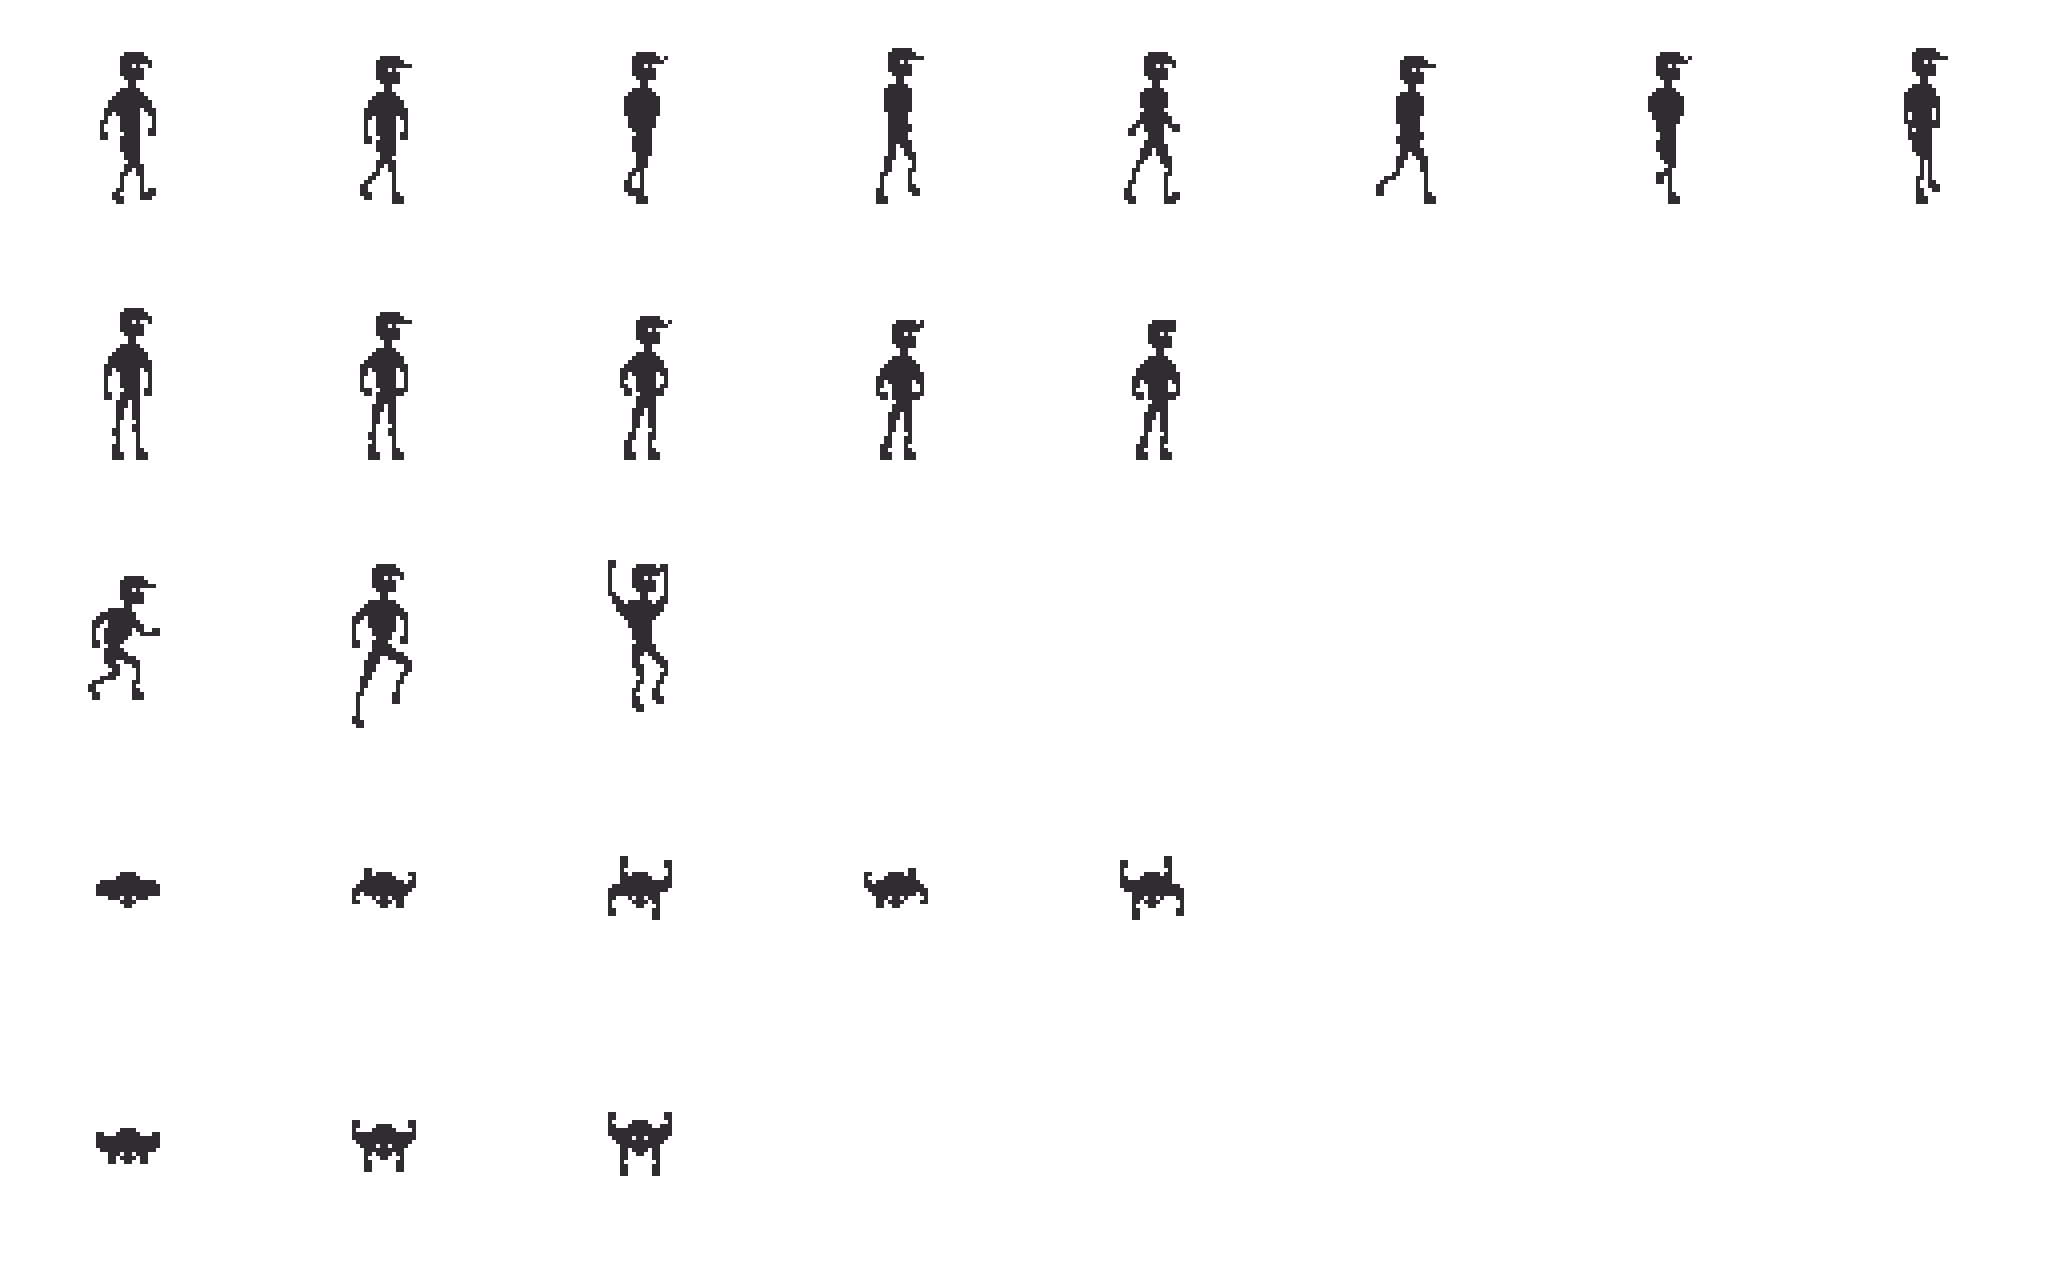
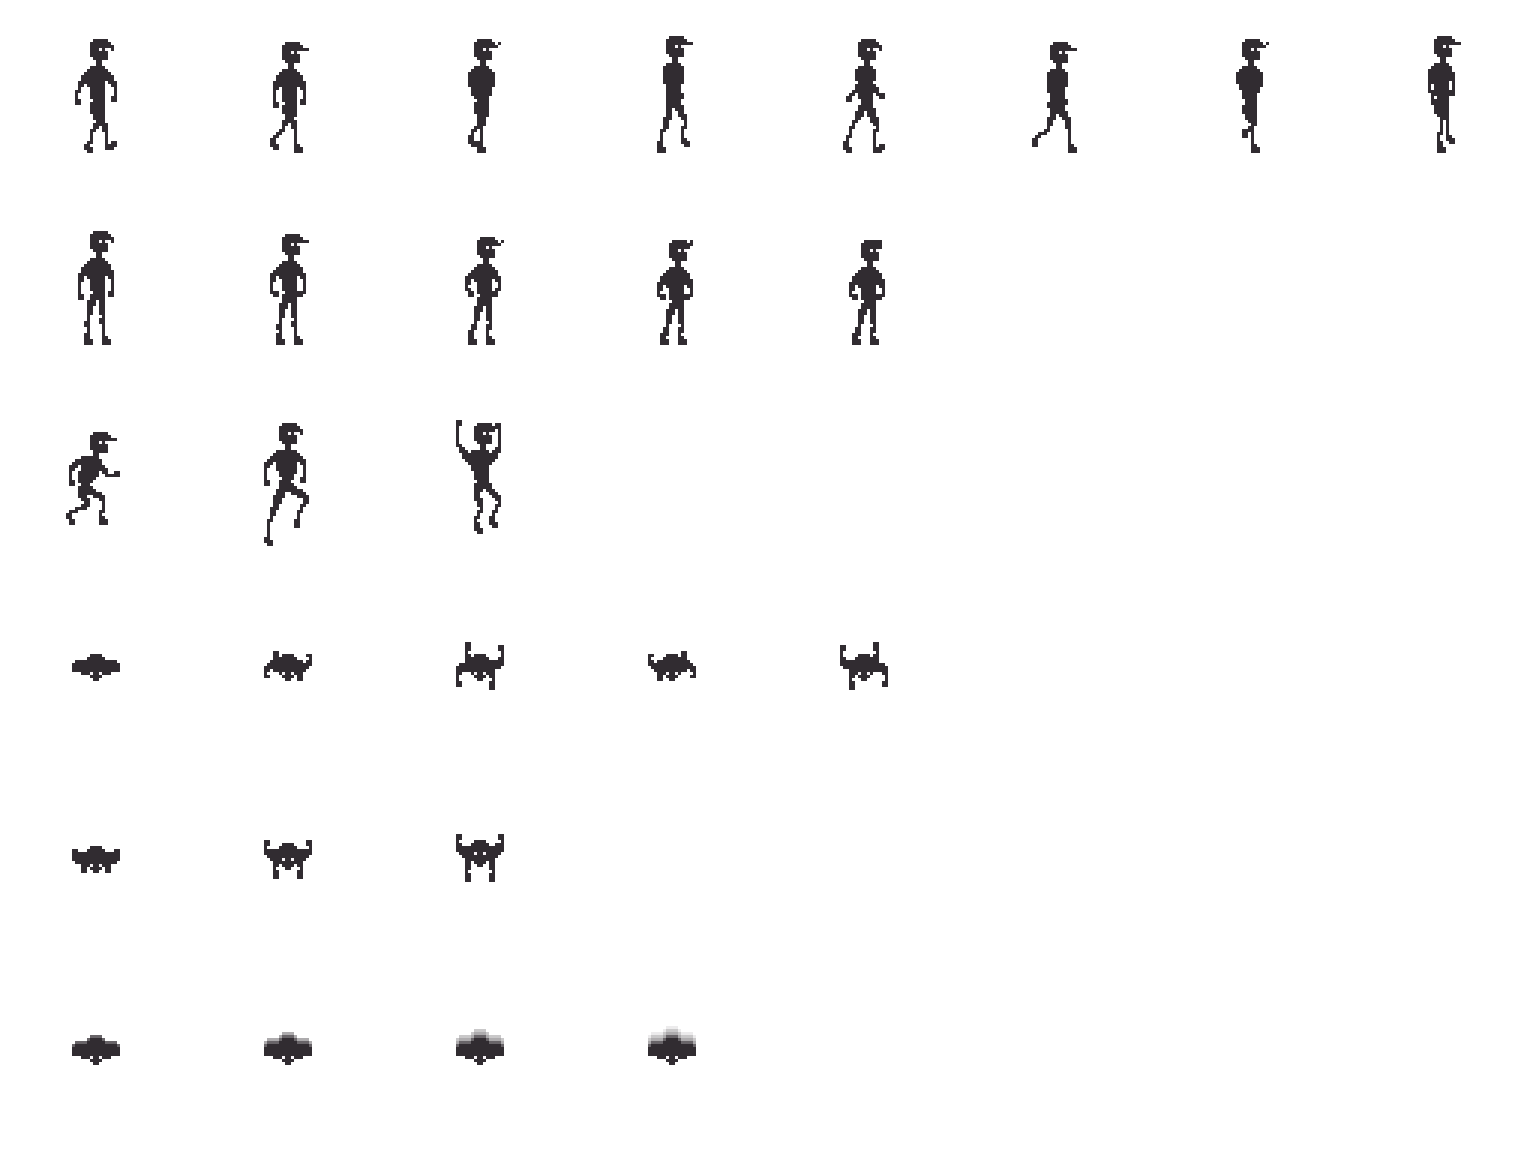
image updates

diff --git a/Game150/Game/Player.cpp b/Game150/Game/Player.cpp
@@ -16,10 +16,11 @@ Player::Player(Math::vec3 start_position) :
     GameObject(start_position)
 {
     //AddGOComponent(new CS230::Sprite("Assets/Player.spt", this));
-    AddGOComponent(new CS230::Sprite("Assets/Cat.spt", this));
+    AddGOComponent(new CS230::Sprite("Assets/Player.spt", this));
     change_state(&state_idle);
     current_state->Enter(this);
-    
+    GetGOComponent<CS230::Sprite>()->PlayAnimation(static_cast<int>(Animations::Idle));
+
 }
 
 void Player::Update(double dt) {
@@ -129,7 +130,7 @@ void Player::move(double dt)
 
 void Player::State_Jumping::Enter(GameObject* object) {
     Player* player = static_cast<Player*>(object);
-    player->GetGOComponent<CS230::Sprite>()->PlayAnimation(static_cast<int>(Animations::Idle));
+    player->GetGOComponent<CS230::Sprite>()->PlayAnimation(static_cast<int>(Animations::Jumping));
     player->SetVelocity({ player->GetVelocity().x, player->GetVelocity().y, Player::jump_velocity*0.1 });
     player->standing_on = nullptr;
 }
@@ -151,7 +152,12 @@ void Player::State_Jumping::CheckExit(GameObject* object) {
 
 void Player::State_Idle::Enter(GameObject* object) {
     Player* player = static_cast<Player*>(object);
-    player->GetGOComponent<CS230::Sprite>()->PlayAnimation(static_cast<int>(Animations::Idle));
+    if (player->dimension.GetDimension() == Dimension::Side) {
+        player->GetGOComponent<CS230::Sprite>()->PlayAnimation(static_cast<int>(Animations::Idle));
+    }
+    else{
+        player->GetGOComponent<CS230::Sprite>()->PlayAnimation(static_cast<int>(Animations::TopIdle));
+    }
 }
 void Player::State_Idle::Update(GameObject* object, double dt) {
     Player* player = static_cast<Player*>(object);
@@ -186,7 +192,12 @@ void Player::State_Idle::CheckExit(GameObject* object) {
 
 void Player::State_Falling::Enter(GameObject* object) {
     Player* player = static_cast<Player*>(object);
-    player->GetGOComponent<CS230::Sprite>()->PlayAnimation(static_cast<int>(Animations::Falling));
+    if (player->dimension.GetDimension() == Dimension::Side) {
+        player->GetGOComponent<CS230::Sprite>()->PlayAnimation(static_cast<int>(Animations::Falling));
+    }
+    else {
+        player->GetGOComponent<CS230::Sprite>()->PlayAnimation(static_cast<int>(Animations::TopFalling));
+    }
 }
 void Player::State_Falling::Update(GameObject* object, double dt) {
     Player* player = static_cast<Player*>(object);
@@ -228,8 +239,12 @@ void Player::State_Walking::Enter(GameObject* object) {
     {
         player->SetScale({ -player->GetScale().x, player->GetScale().y });
     }
-
-    player->GetGOComponent<CS230::Sprite>()->PlayAnimation(static_cast<int>(Animations::Walking));
+    if (player->dimension.GetDimension() == Dimension::Side) {
+        player->GetGOComponent<CS230::Sprite>()->PlayAnimation(static_cast<int>(Animations::Walking));
+    }
+    else {
+        player->GetGOComponent<CS230::Sprite>()->PlayAnimation(static_cast<int>(Animations::TopWalking));
+    }
 }
 void Player::State_Walking::Update(GameObject* object, double dt) {
     Player* player = static_cast<Player*>(object);
@@ -269,7 +284,7 @@ void Player::State_Walking::CheckExit(GameObject* object) {
 }
 void Player::State_Dashing::Enter(GameObject* object) {
     Player* player = static_cast<Player*>(object);
-    player->GetGOComponent<CS230::Sprite>()->PlayAnimation(static_cast<int>(Animations::Dashing));
+    player->GetGOComponent<CS230::Sprite>()->PlayAnimation(static_cast<int>(Animations::TopDashing));
     player->SetVelocity({ dash_velocity, player->GetVelocity().y, player->GetVelocity().z });
 }
 void Player::State_Dashing::Update(GameObject* object, double dt) {
@@ -295,7 +310,7 @@ void Player::State_Dashing::CheckExit(GameObject* object) {
 
 void Player::State_Interacting::Enter(GameObject* object) {
     Player* player = static_cast<Player*>(object);
-    player->GetGOComponent<CS230::Sprite>()->PlayAnimation(static_cast<int>(Animations::Dashing));
+    player->GetGOComponent<CS230::Sprite>()->PlayAnimation(static_cast<int>(Animations::Idle));
     player->SetVelocity({ dash_velocity, player->GetVelocity().y, player->GetVelocity().z });
 }
 void Player::State_Interacting::Update(GameObject* object, double dt) {

diff --git a/Game150/Game/Player.h b/Game150/Game/Player.h
@@ -118,12 +118,10 @@ private:
         Walking,
         Jumping,
         Falling,
-        Dashing,
-        Interacting,
         TopIdle,
         TopWalking,
+        TopFalling,
         TopDashing,
-        TopInteracting
     };
 
     static constexpr double hurt_time = 2.0;
